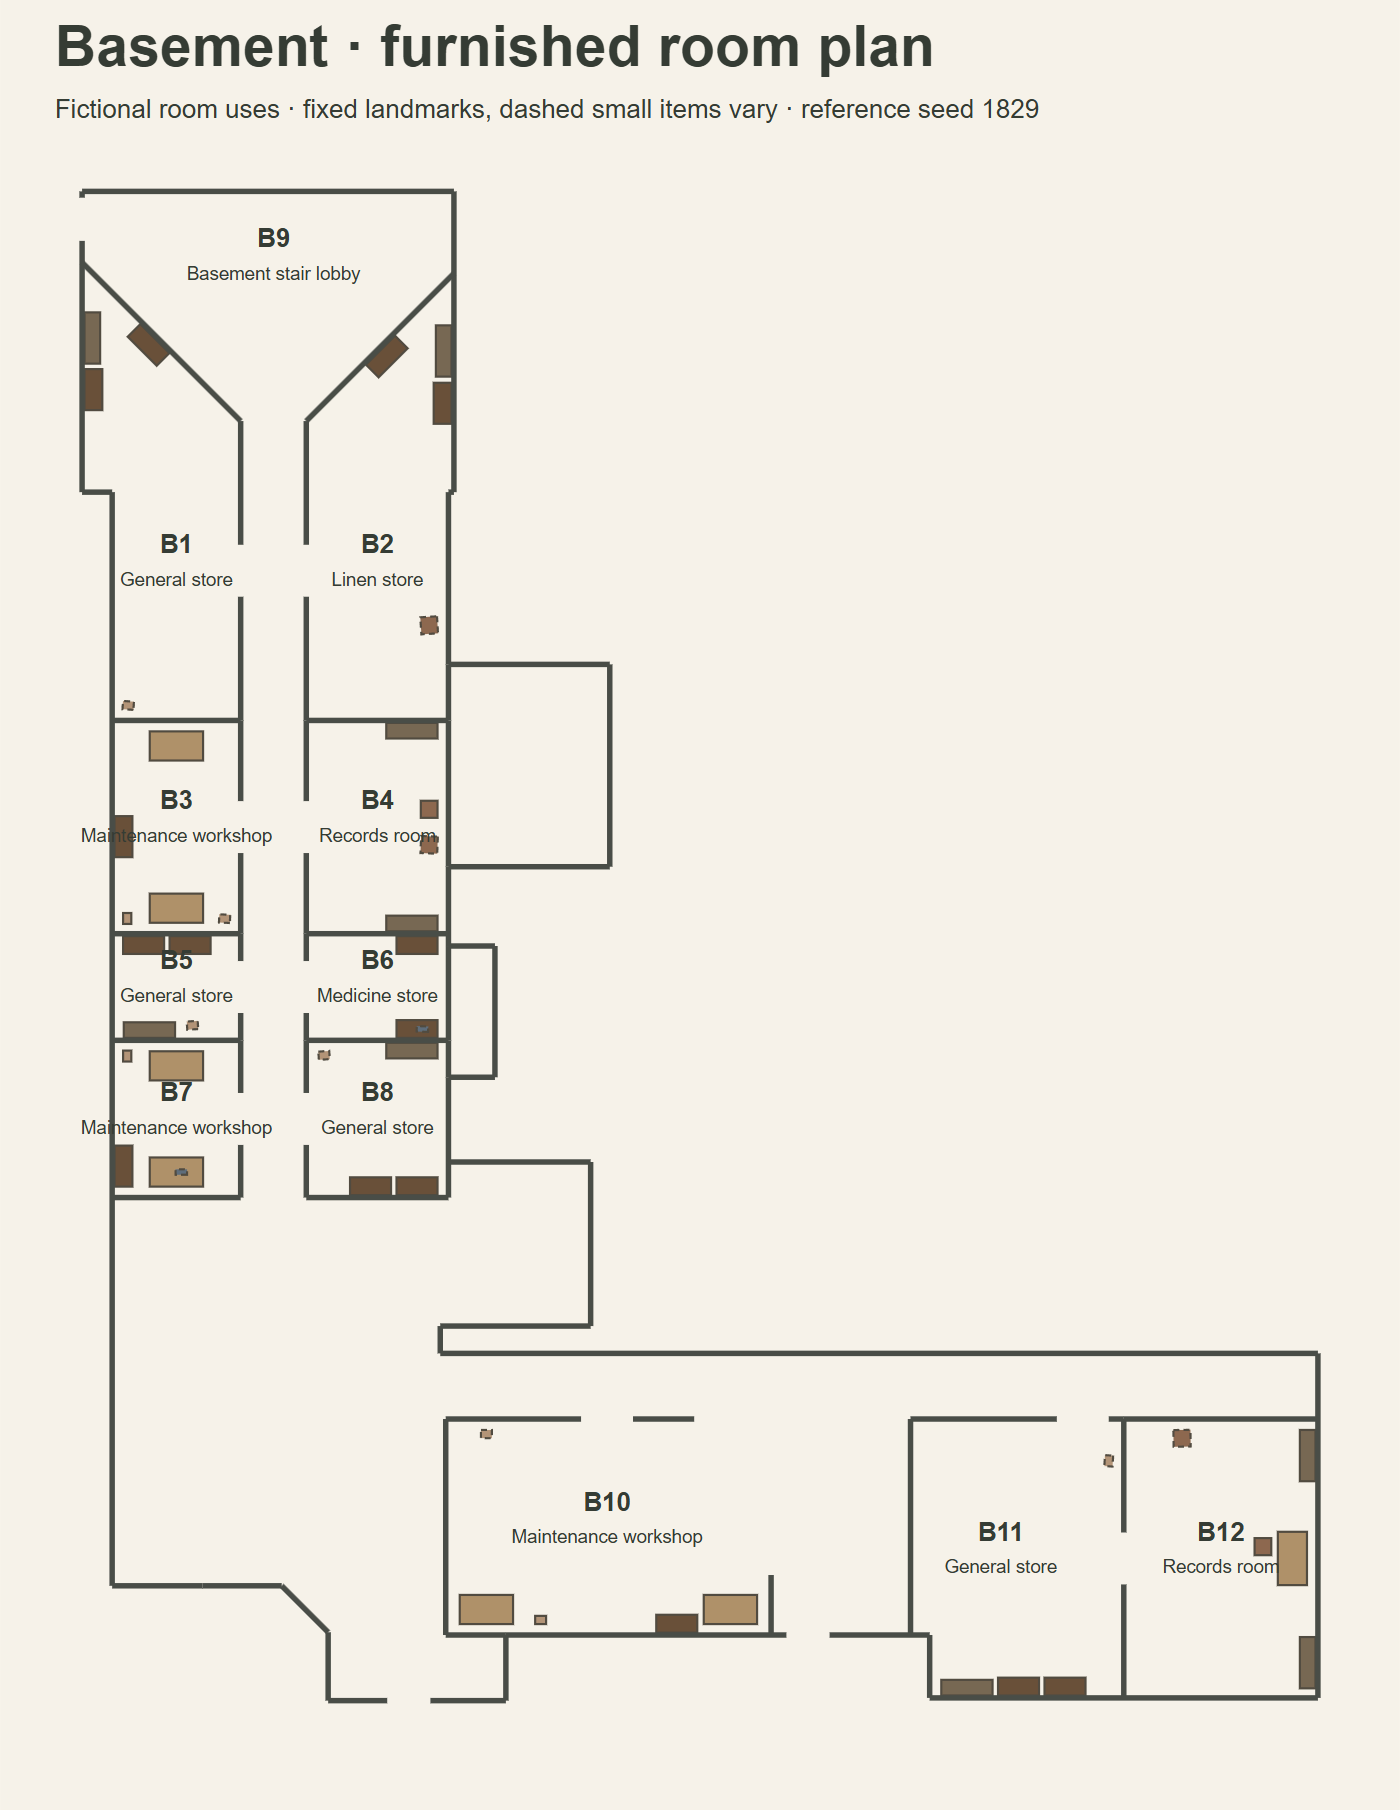
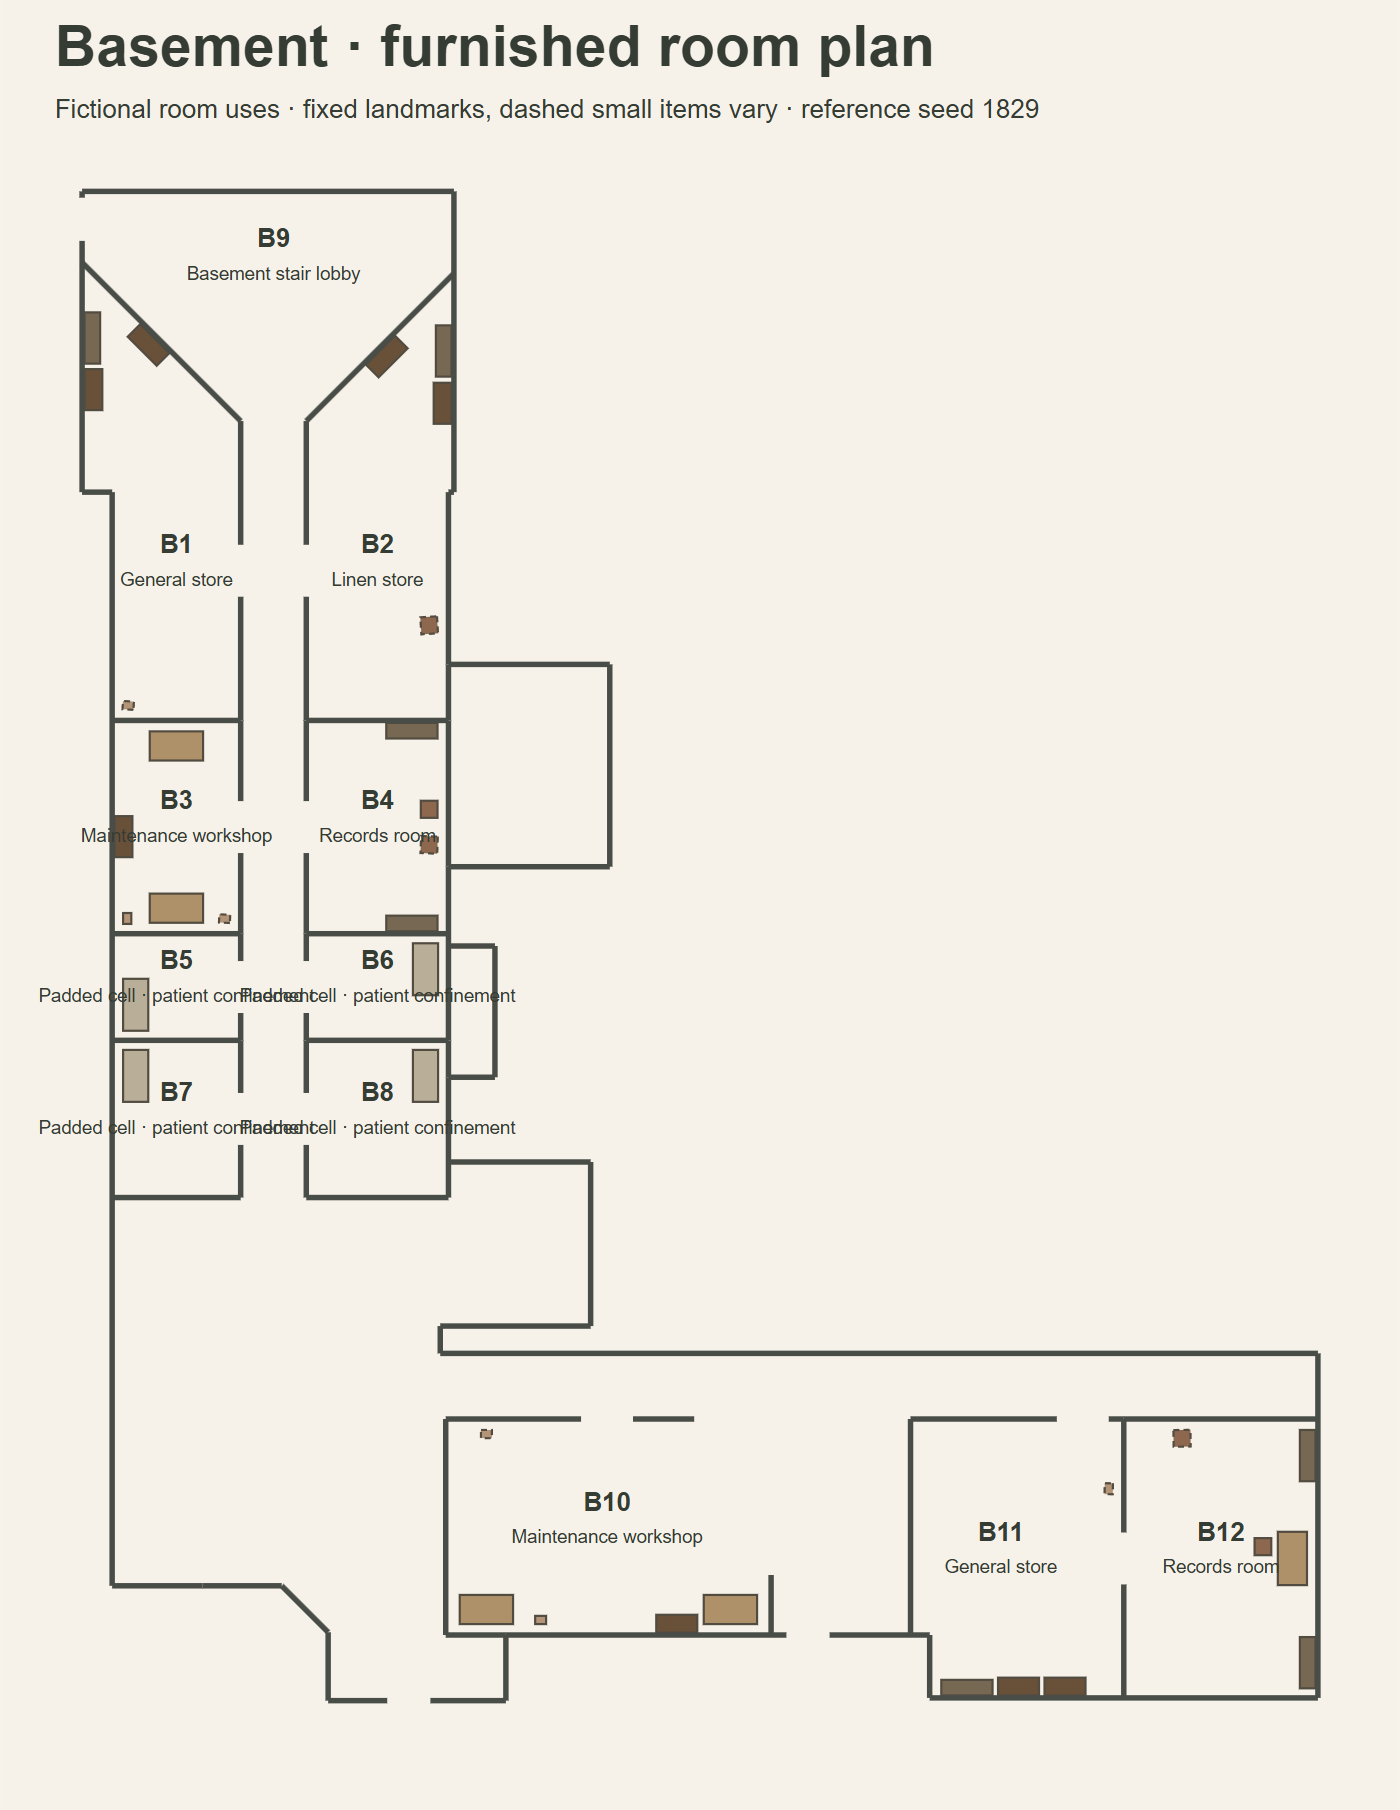
Padded cells

Changed region(s): [[0.0307, 0.495, 0.3686, 0.6807], [0.7679, 0.8044, 0.7986, 0.8354]]

diff --git a/DEVELOPMENT.md b/DEVELOPMENT.md
@@ -10679,3 +10679,40 @@ npm test run still stops at test-facade-courses.mjs:68 (23 courses versus 22).
 
 Only browser developer controls, related checks and this note change. Models,
 Unity, Blender and packaged exports were not regenerated.
+
+## Basement padded confinement cells (5 October 2026)
+
+The owner confirms B5, B6, B7 and B8 as padded cells for patient confinement.
+Their former stores and workshop uses are superseded. Both browser modes now
+show quilted canvas lining on the walls and floor, plus one fixed low rounded
+mattress per cell. Rigid storage, tables, seats and variable loose items are
+removed from these rooms. Furnished room names and notebook discoveries read
+“Padded cell · patient confinement”. These are fictional gameplay uses.
+
+The finisher classifies exposed cell faces separately from corridor faces and
+omits wallpaper/dado rails there. padded-cell-models.mjs tessellates the actual
+masonry surfaces into soft panels, continuing across the lower/upper batch
+seam. All four rooms' wall and floor lining shares one mesh and canvas material.
+The backing covers the former skirting; quilt seams remain visible under the
+game's lighting. Exclusions account for complete window frames, perpendicular
+reveals, door-surround outer trim, parked leaves and floor-level jambs. Room
+boundaries, windows, doors and stair inputs retain their existing definitions.
+Mattress placement uses the shared furniture records and collision/navigation
+updates. The source mattress is .92 × 1.90 × .18m; model and walking bounds agree.
+
+Dedicated validation passes all twenty lined surfaces, eight clear apertures,
+eight physically walked cell return routes, reproducible mattresses, and the
+actual padding triangles against all 68 nearby window/door timber bounds.
+The furnishing survey passes eight seeds and 976 room/exit routes. Window-frame
+and room-finish checks pass all 300 windows, 94 openings and 5,462 wall rays.
+Game, notebook and Explore-interior checks pass. Hardware browser checks verify
+NVIDIA GeForce RTX 3090 Ti / Direct3D11, matching padding and mattress geometry
+in Escape and Explore, desktop/phone views and no page/shader errors. Final
+captures and the browser receipt are in Browser/artifacts/padded-cells/; the
+basement furnished SVG/PNG are refreshed. Run npm run test:cells in Browser.
+
+The required npm test attempt stops at the existing independent façade-course
+count assertion in test-facade-courses.mjs:68 (23 versus 22). Browser interior
+sources, checks and review drawings are updated. The current aerial source
+fingerprint still matches its compiled asset, so no aerial rebuild is needed.
+Unity, Blender and packaged exports are not regenerated.

diff --git a/Research/room-furnishings/README.md b/Research/room-furnishings/README.md
@@ -1,5 +1,30 @@
 # Room furnishings — 3 October 2026
 
+## Basement padded cells — 5 October 2026
+
+The owner confirms B5, B6, B7 and B8 as padded cells for patient confinement.
+This supersedes their former store, medicine-store and workshop assignments.
+Each has a single fixed, rounded canvas mattress (.92 × 1.90 × .18m) and no
+storage, work tables, chairs or loose objects. Escape and Explore share the
+same room-use names, furnishings and padding. Notebook discoveries use
+“Padded cell · patient confinement”. These are owner-directed fictional room
+uses, not evidence of the hospital's historical room functions.
+
+Original procedural quilted canvas covers the room-facing walls and floors.
+Wall panels repeat at .62 × .58m, with a 26mm backing and up to 45mm of soft
+relief. The thin floor pads rise 4–16mm above the original floor. The lining
+stops outside window frames, door surrounds and parked door leaves. Wallpaper
+and dado rails are omitted in these cells; the reviewed room boundaries,
+window schedules and playable door poses remain the shared plan inputs.
+
+The [basement furnished plan](basement.svg) is refreshed. Run
+`npm run test:cells` in `../../Browser` for the dedicated geometry, return-route
+and hardware browser checks. Desktop, phone and Explore views are in
+`../../Browser/artifacts/padded-cells/`. Full validation results are recorded
+in `../../DEVELOPMENT.md`. Browser sources are updated; the aerial asset's
+source fingerprint remains current. Unity, Blender and packaged exports are
+not regenerated.
+
 ## Shared ward privies — 5 October 2026
 
 R5, R16, R33 and R35 on the ground and first floors now serve as shared
@@ -610,7 +635,7 @@ groupings explain the intended circulation and organisation.
 | First, outer rear arms | R1/R3/R12/R14 bedrooms; R2/R13 wards; R4/R15 day rooms; R5/R16 linen |
 | First, cross range | R19/R28/R29 bedrooms; R20/R22/R27 wards; R23/R25 nursing; R26 staff sitting; R30 staff bedroom; R17 store; R18/R21/R31 quiet areas |
 | First, forward wings | R32/R36 wards; R33/R35 day rooms; R34 quiet sitting; R37 reading |
-| Basement | B1/B5/B8/B11 stores; B2 linen; B3/B7/B10 maintenance; B4/B12 records; B6 medicines |
+| Basement | B1/B11 stores; B2 linen; B3/B10 maintenance; B4/B12 records; B5–B8 padded confinement cells |
 | Second | R43 staff sitting; R41 records office; R42 staff office; R44 archive/stores; R45 linen |
 | Kept clear | R24 stair hall on both levels; B9 stair lobby; ground R40 entrance porch |
 

diff --git a/Research/room-wall-finishes/README.md b/Research/room-wall-finishes/README.md
@@ -1,5 +1,15 @@
 # Victorian room wall finishes — 4 October 2026
 
+## Padded-cell exception — 5 October 2026
+
+The owner's confirmed B5–B8 confinement cells supersede the basement-store
+and workshop finishes below. These four rooms use quilted canvas wall and
+floor padding instead of wallpaper, lower paint and dado rails. A single
+padding batch follows the actual exposed masonry faces, leaving full window
+frames, door surrounds and open leaves clear. The corridor side of every
+partition retains its original masonry. Panel dimensions, mattress choices
+and review evidence are recorded in [the furnishing notes](../room-furnishings/README.md).
+
 The owner requests the existing two-tone corridor brickwork be retained,
 with a Victorian dado rail, slightly distressed white/cream paint over the
 bottom 40% of bedroom, dormitory and other non-treatment room walls, and
